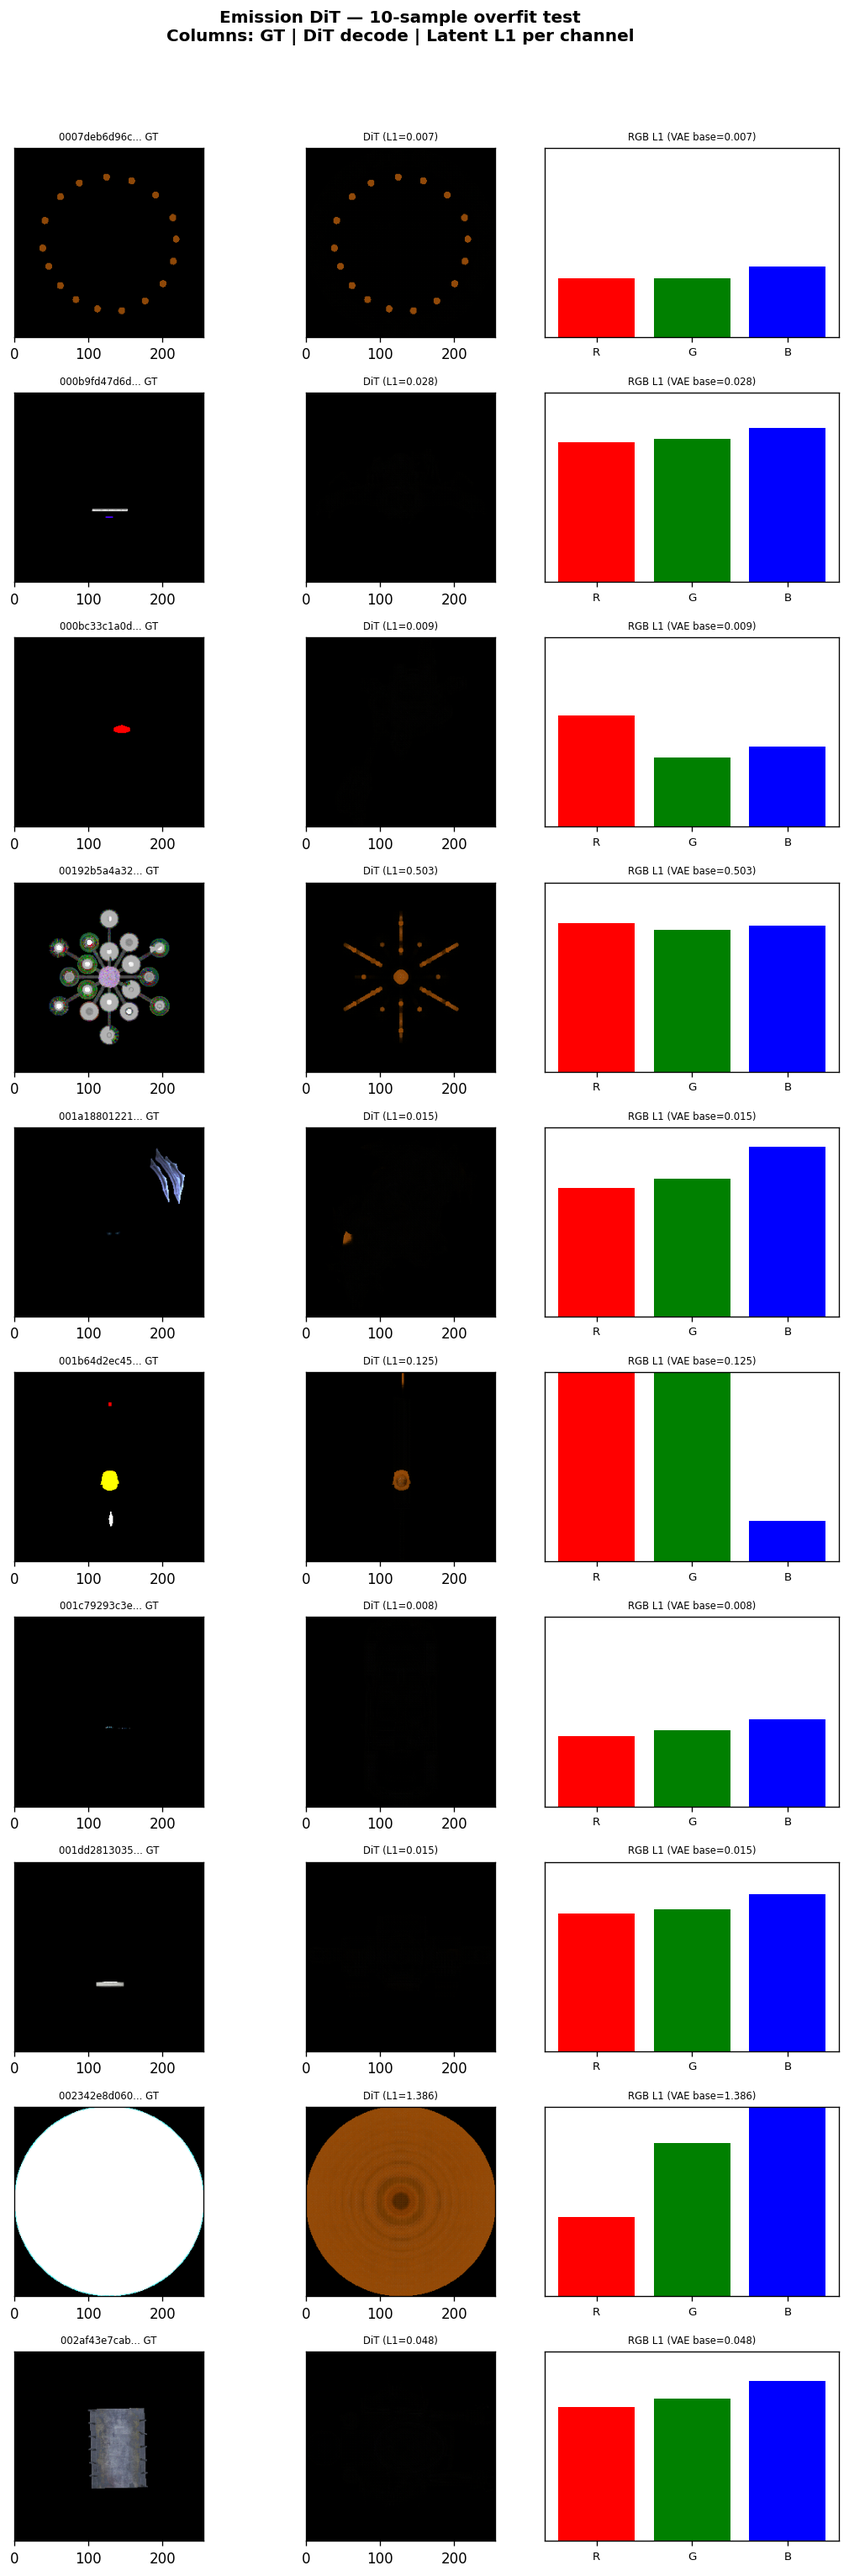
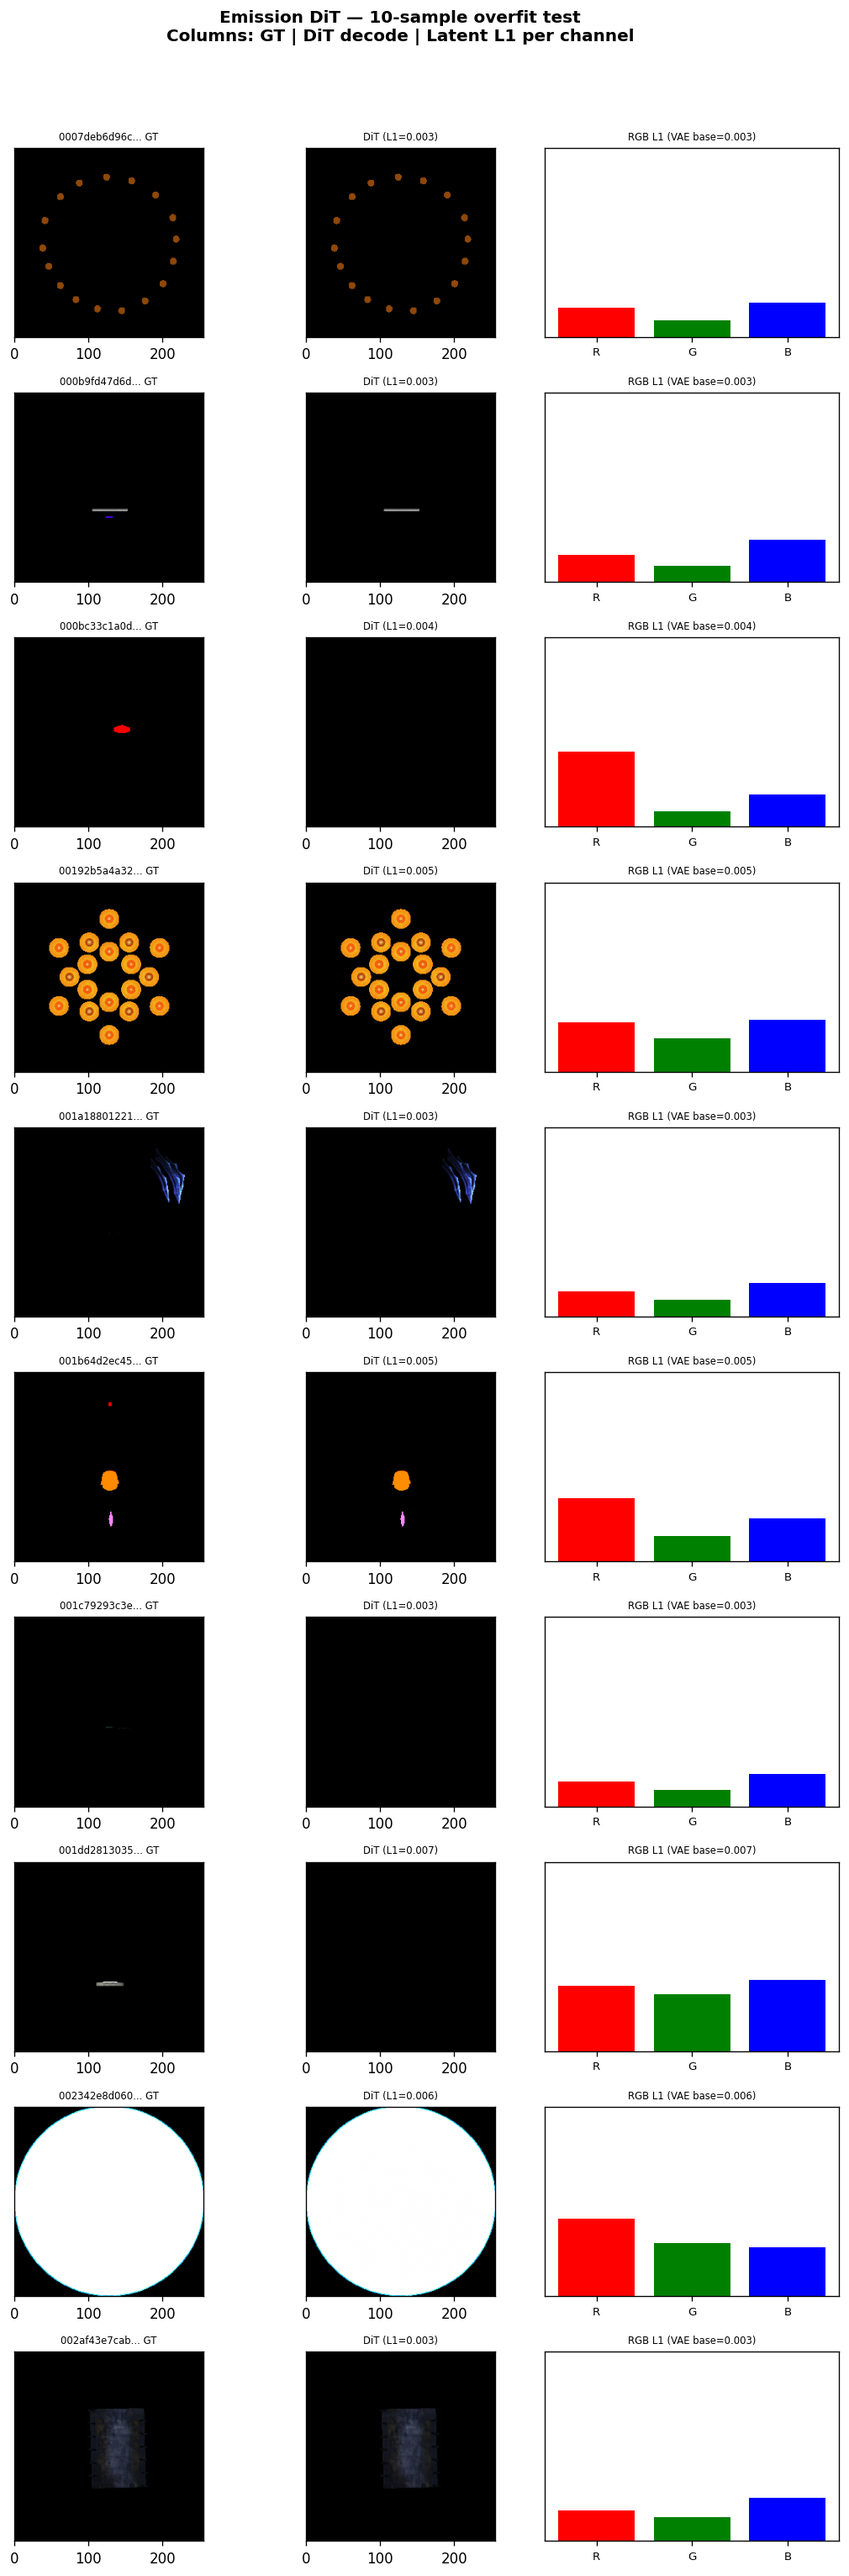
update add validation loop for overfitting test

diff --git a/data_toolkit/prep_10sample_as1k.py b/data_toolkit/prep_10sample_as1k.py
@@ -1,13 +1,27 @@
 #!/usr/bin/env python3
 """
-Build a split JSON that makes the 10-sample dataset behave like the 873-train
-split of lightgen_1k: each of the 10 unique samples is repeated so the train
-split has exactly 873 entries — matching the 1k finetune config row-for-row.
+Build a split JSON for the 10-sample overfit test.
 
-This lets us run the emission_pbr_finetune_1k config unmodified on the
-10-sample data (same steps-per-epoch, same sampler behavior, same fp16 / LR /
-EMA / grad-clip dynamics) to isolate whether lack of convergence is caused by
-the training setup or by the data.
+Why repeat the train set?
+-------------------------
+The TrellisDataModule train DataLoader uses drop_last=True (see
+trellis2/trainers/data.py), so len(loader) = len(dataset) // batch_size. With
+only 10 unique samples and any per-GPU batch size > 10 (e.g. BS=12 to keep the
+GPU busy for scaling tests), drop_last would discard everything and produce
+zero training batches per epoch — training hangs.
+
+So we oversample the 10 unique items to TRAIN_SIZE entries. This costs nothing
+at I/O time (the dataset is just an index list and the underlying .vxz files
+are cached/mmap'd). It is mathematically equivalent to a single epoch of 10
+samples replayed TRAIN_SIZE/10 times, only the step boundary changes.
+
+Val keeps the 10 unique samples once: val_dataloader uses drop_last=False so
+no oversampling is needed there. With train==val (same 10 samples) we get a
+clean "did the model memorize?" signal — val/loss should track train/loss and
+approach zero as overfitting succeeds.
+
+Override TRAIN_SIZE via env var if you change BS or want more steps/epoch:
+    TRAIN_SIZE=240 python data_toolkit/prep_10sample_as1k.py
 
 Output: /local-scratch/localhome/dya78/lightgen_test/data_splits_10sample_as1k.json
 """
@@ -18,29 +32,32 @@ import pandas as pd
 TEST_ROOT   = "/local-scratch/localhome/dya78/lightgen_test"
 PARQUET     = f"{TEST_ROOT}/df_10samples.parquet"
 OUT_JSON    = f"{TEST_ROOT}/data_splits_10sample_as1k.json"
-TRAIN_SIZE  = 873  # matches lightgen_1k train split exactly
+# 120 = 10 batches/epoch at BS=12 per GPU (the current scaling target).
+TRAIN_SIZE  = int(os.environ.get("TRAIN_SIZE", 120))
 
 df = pd.read_parquet(PARQUET)
 n_unique = len(df)
 print(f"Parquet: {PARQUET}  rows={n_unique}")
 
-# Build positional indices 0..N-1, repeated up to TRAIN_SIZE entries total.
 base = list(range(n_unique))
 reps = (TRAIN_SIZE + n_unique - 1) // n_unique
 train_indices = (base * reps)[:TRAIN_SIZE]
+val_indices   = list(range(n_unique))
 
-assert len(train_indices) == TRAIN_SIZE
-print(f"Train indices: {len(train_indices)}  (each of {n_unique} unique samples "
-      f"appears ~{TRAIN_SIZE // n_unique}-{(TRAIN_SIZE + n_unique - 1) // n_unique} times)")
+print(f"Train indices: {len(train_indices)}  "
+      f"(each of {n_unique} unique samples appears ~{TRAIN_SIZE // n_unique}x)")
+print(f"Val indices:   {len(val_indices)}  "
+      f"(same {n_unique} unique samples once — overfit memorization check)")
 
 splits = {
     "train": {"indices": train_indices},
-    "val":   {"indices": []},
+    "val":   {"indices": val_indices},
     "test":  {"indices": []},
-    "note": (f"10-sample dataset expanded to {TRAIN_SIZE} train rows so the "
-             f"emission_pbr_finetune_1k config can be run unmodified for a "
-             f"training-setup isolation test. Each of {n_unique} unique samples "
-             f"is repeated ~{TRAIN_SIZE // n_unique}x."),
+    "note": (f"10-sample overfit test: train oversampled to {TRAIN_SIZE} rows "
+             f"so per-GPU batch size up to ~{TRAIN_SIZE} works cleanly with "
+             f"drop_last=True. Val is the {n_unique} unique samples once — "
+             f"val/loss should track train/loss and approach 0 as the model "
+             f"memorizes the data."),
 }
 
 os.makedirs(os.path.dirname(OUT_JSON), exist_ok=True)

diff --git a/data_toolkit/test_emission_dit_10samples.py b/data_toolkit/test_emission_dit_10samples.py
@@ -28,17 +28,17 @@ from torchvision import transforms
 
 torch.set_grad_enabled(False)
 
-DATA_ROOT = "/tmp/lightgen_test"
-DIT_CKPT  = "/tmp/emission_dit_10sample_overfit/ckpts/last.ckpt"
-DIT_CFG   = "/tmp/emission_dit_10sample_overfit/config.yaml"
-EMIT_VAE_CKPT = "/tmp/emission_vae_optB_overfit/ckpts/stepstep=0001000.ckpt"
-EMIT_VAE_CFG  = "/tmp/emission_vae_optB_overfit/config.yaml"
+DATA_ROOT = "/local-scratch/localhome/dya78/lightgen_test"
+DIT_CKPT  = "/local-scratch/localhome/dya78/code/TRELLIS.2-lightning/outputs/emission_dit_10sample_overfit/ckpts/last.ckpt"
+DIT_CFG   = "/local-scratch/localhome/dya78/code/TRELLIS.2-lightning/outputs/emission_dit_10sample_overfit/config.yaml"
+EMIT_VAE_CKPT = "/local-scratch/localhome/dya78/code/TRELLIS.2-lightning/outputs/emission_vae_10sample_overfit/ckpts/last.ckpt"
+EMIT_VAE_CFG  = "/local-scratch/localhome/dya78/code/TRELLIS.2-lightning/outputs/emission_vae_10sample_overfit/config.yaml"
 OUT_PNG   = os.path.join(os.path.dirname(__file__), "..", "emission_dit_10sample_test.png")
 device = "cuda"
 
 import pandas as pd
-df = pd.read_parquet('/localhome/dya78/code/lightgen/data/baked_uv_local_subset/df_SomgProc_emission_filtered.parquet')
-SAMPLES = list(df.index)[:10]
+df = pd.read_parquet(f'{DATA_ROOT}/df_10samples.parquet')
+SAMPLES = list(df["sha256"] if "sha256" in df.columns else df.index)[:10]
 
 
 # ── Helpers ───────────────────────────────────────────────────────────────────
@@ -147,7 +147,7 @@ for sha in SAMPLES:
     x_gt = sp.SparseTensor(gt_feats, torch.cat([bc, coords], dim=-1)).to(device)
 
     # Load latents
-    z_emit_raw  = load_latent(f"{DATA_ROOT}/emission_latents/emission_vae_optB_overfit/{sha}.npz")
+    z_emit_raw  = load_latent(f"{DATA_ROOT}/emission_latents/emission_vae_10sample_overfit/{sha}.npz")
     z_pbr_raw   = load_latent(f"{DATA_ROOT}/pbr_latents/tex_enc_next_dc_f16c32_fp16_256/{sha}.npz")
     z_shape_raw = load_latent(f"{DATA_ROOT}/shape_latents/shape_enc_next_dc_f16c32_fp16_256/{sha}.npz")
 
@@ -214,11 +214,11 @@ for i, r in enumerate(results):
     axes[i][1].set_title(f"DiT (L1={r['dit_l1']:.3f})", fontsize=7)
 
     # Per-channel latent L1
-    z_gt_feats  = load_latent(f"{DATA_ROOT}/emission_latents/emission_vae_optB_overfit/{r['sha']}.npz").feats
+    z_gt_feats  = load_latent(f"{DATA_ROOT}/emission_latents/emission_vae_10sample_overfit/{r['sha']}.npz").feats
     z_dit_feats = results[i]["dit"].feats   # decoded, not latent space — use lat_l1 from raw latents
 
     # Re-load cached emit lat for per-channel breakdown
-    z_e = np.load(f"{DATA_ROOT}/emission_latents/emission_vae_optB_overfit/{r['sha']}.npz")["feats"]
+    z_e = np.load(f"{DATA_ROOT}/emission_latents/emission_vae_10sample_overfit/{r['sha']}.npz")["feats"]
     # We stored z_dit_raw implicitly; approximate per-channel from overall lat_l1
     axes[i][2].bar(range(3), [
         (r["gt"].feats[:, ch] - r["dit"].feats[:, ch]).abs().mean().item()

diff --git a/trellis2/datasets/lightgen_slat.py b/trellis2/datasets/lightgen_slat.py
@@ -503,6 +503,50 @@ class LightGenSLatEmissionLatent(Dataset):
             print(f"[LightGenSLatEmissionLatent] Error loading {sha256}: {exc}")
             raise
 
+    @torch.no_grad()
+    def visualize_sample(self, sample: dict) -> dict:
+        """Max-projection visualization of emission latent channels."""
+        x_0 = sample["x_0"]  # SparseTensor [N, C]
+        res = self.resolution // 16  # latent resolution
+
+        def _max_proj(sp_tensor: SparseTensor, channels: slice) -> torch.Tensor:
+            """Render a batch of max-projection images (B, 3, H, W)."""
+            images = []
+            for b in range(sp_tensor.shape[0]):
+                mask = sp_tensor.coords[:, 0] == b
+                coords = sp_tensor.coords[mask, 1:]  # [M, 3]
+                feats = sp_tensor.feats[mask, channels]  # [M, C']
+                C = feats.shape[-1]
+                if C >= 3:
+                    rgb = feats[:, :3]
+                else:
+                    rgb = torch.zeros(feats.shape[0], 3, device=feats.device)
+                    rgb[:, :C] = feats
+                lo, hi = rgb.min(), rgb.max()
+                if hi - lo > 1e-6:
+                    rgb = (rgb - lo) / (hi - lo)
+                else:
+                    rgb = rgb * 0 + 0.5
+                img = torch.zeros(res, res, 3, device=feats.device)
+                depth = torch.full((res, res), -1.0, device=feats.device)
+                mag = rgb.norm(dim=-1)
+                c = coords.long()
+                for i in range(c.shape[0]):
+                    y, x = c[i, 1].item(), c[i, 0].item()
+                    if 0 <= y < res and 0 <= x < res and mag[i] > depth[y, x]:
+                        depth[y, x] = mag[i]
+                        img[y, x] = rgb[i]
+                images.append(img.permute(2, 0, 1))  # [3, H, W]
+            return torch.stack(images)  # [B, 3, H, W]
+
+        vis = {}
+        vis["emission_latent"] = _max_proj(x_0, slice(0, 3))
+        if "concat_cond" in sample:
+            vis["cond_latent"] = _max_proj(sample["concat_cond"], slice(0, 3))
+        if "cond" in sample and sample["cond"].ndim == 4:
+            vis["image_cond"] = sample["cond"]  # [B, 3, H, W]
+        return vis
+
     @staticmethod
     def collate_fn(batch: List[Dict], split_size: Optional[int] = None):
         return _sparse_collate(batch, split_size)

diff --git a/trellis2/trainers/flow_matching/mixins/image_conditioned.py b/trellis2/trainers/flow_matching/mixins/image_conditioned.py
@@ -85,7 +85,10 @@ class DinoV3FeatureExtractor:
         hidden_states = self.model.embeddings(image, bool_masked_pos=None)
         position_embeddings = self.model.rope_embeddings(image)
 
-        for i, layer_module in enumerate(self.model.layer):
+        # transformers <=5.1: layers at self.model.layer
+        # transformers >=5.5: layers at self.model.model.layer
+        layers = getattr(self.model, 'layer', None) or self.model.model.layer
+        for i, layer_module in enumerate(layers):
             hidden_states = layer_module(
                 hidden_states,
                 position_embeddings=position_embeddings,
